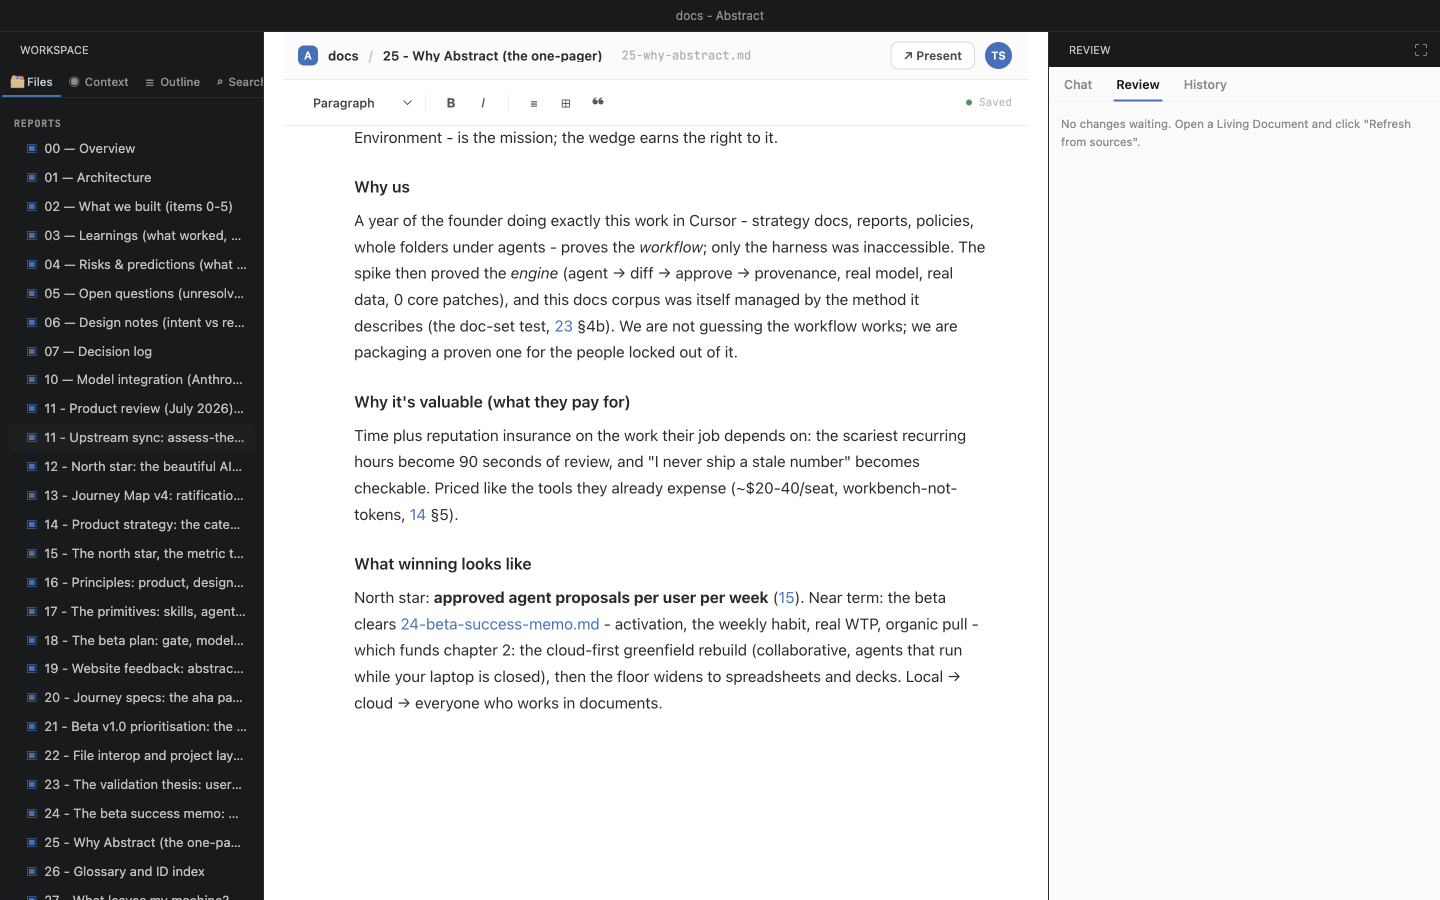
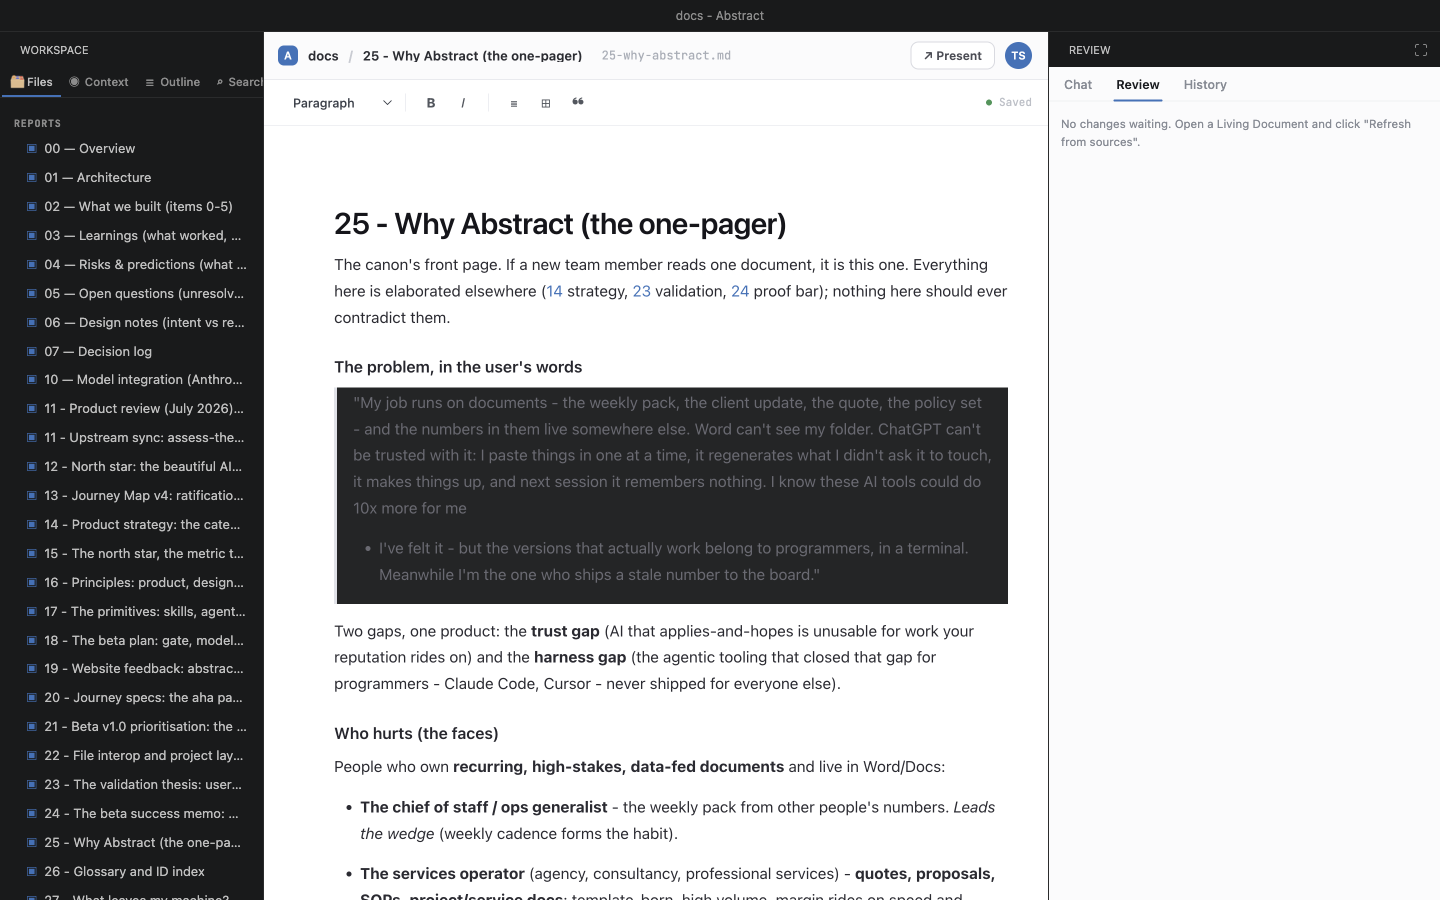
fix(livingDocs): reset webview harness body padding so header bars are truly edge-to-edge (#175)
The doc editor top bar + formatting toolbar (and the screen topbar) were inset ~20px
off each pane rail by a persistent white gutter. Root cause: the webview harness injects
body{padding:0 20px} (src/vs/workbench/contrib/webview/browser/pre/index.html); the
living-doc + screen content CSS reset body margin but not padding, so the harness inset
survived and pushed every full-bleed bar off both rails. The earlier sibling-of-.pmwrap
work was necessary but not sufficient - the gutter was the surviving harness padding.

Fix (fork-owned generated CSS only, no core patch): add padding:0 to the content html,body
rule in livingDocRender.ts and screenRender.ts. The centred 720px prose column keeps its
own insets via the .pmwrap 40px lateral padding, so the prose stays centred (verified
149px symmetric insets at a 1048px pane, 40px at 784px) while the bars now reach 0px inset
on both rails.

Reframe the #175 unit test off the tautological sibling-order assertion onto the real
acceptance: the generated CSS resets the harness body padding. Verified the reframed test
fails on bodyPaddingReset when the reset is reverted.

Live E2E on doc 25 (docs workspace): top bar leftInset=0/rightInset=0 at 784px and 1048px
pane widths; left-edge crops show no white lane; breadcrumb (#174) and present mode
unaffected. Evidence refreshed under docs/qa/2026-07-16-bundle-f/ (stale pre-fix annotated
gutter shots removed; validator/ intact).
[…]

diff --git a/src/vs/workbench/contrib/livingDocs/test/browser/livingDocRender.test.ts b/src/vs/workbench/contrib/livingDocs/test/browser/livingDocRender.test.ts
@@ -318,31 +318,37 @@ suite('livingDocs render (PM default - renderLivingDocHtml)', () => {
 		}, { hasBrandCrumb: true, noFileBreadcrumb: true });
 	});
 
-	// Issue #175: the top bar and formatting toolbar run edge-to-edge - they are siblings of the padded prose
-	// wrapper (.pmwrap), not children of it, so their backgrounds/hairline borders reach both rails while only
-	// the prose column carries the 32px/40px wrapper padding + its 30px provenance gutter.
-	test('the header bars are full-bleed siblings of the padded prose wrapper (edge-to-edge chrome)', () => {
+	// Issue #175: the top bar and formatting toolbar run edge-to-edge. The bars being siblings of .pmwrap is
+	// necessary but not sufficient - it was true since the first commit yet the gutter persisted, because the
+	// webview harness injects `body{padding:0 20px}` and the content CSS only reset margin, so the 20px lateral
+	// inset survived and pushed every bar off both rails. The real acceptance is therefore that the generated
+	// CSS resets the harness body padding to 0; only then do the sibling bars actually reach the rails while the
+	// centred 720px prose column keeps its own 40px/30px insets. This is a generated-string test, so we assert
+	// against the CSS text directly - reverting the `padding:0` reset must fail it.
+	test('the generated CSS resets the harness body padding so the sibling header bars reach both rails (edge-to-edge chrome)', () => {
 		const content = renderLivingDocContent({
 			doc: { title: '25 - Why Abstract (the one-pager)', subtitle: '', sources: [], context: [], blocks: [], isLiving: false, body: '' },
 			pending: [], resolved: new Map(), dirty: false, status: '', recent: new Set(), mode: 'pm', rawText: '',
 			present: { open: false, choice: 'html' }, syncDiff: [], projectName: 'docs', fileName: '25-why-abstract.md',
 		});
 		const h = content.html;
-		// The bars precede .pmwrap in document order and are not nested inside it: everything BEFORE the wrapper
-		// opens is the full-bleed chrome; the wrapper and its centred prose column come after.
+		const shell = renderLivingDocHtml({
+			doc, pending: [], resolved: new Map(), dirty: false, status: '', recent: new Set(), mode: 'pm', rawText: '',
+			present: { open: false, choice: 'html' }, syncDiff: [],
+		});
 		const wrapAt = h.indexOf('<div class="pmwrap">');
-		const chrome = h.slice(0, wrapAt);
 		assert.deepStrictEqual({
-			topBarBeforeWrap: chrome.includes('class="topbar"'),
-			toolbarBeforeWrap: chrome.includes('class="etoolbar"'),
-			// the bars are not wrapped by .pmwrap (no bar markup appears after the wrapper opens, before its close)
+			// The harness's `body{padding:0 20px}` inset is reset in the content's own html,body rule (the fix for
+			// #175). Without this the bars are inset ~20px off each rail no matter where they sit in the DOM.
+			bodyPaddingReset: shell.includes('html,body{margin:0;padding:0;'),
+			// The bars precede .pmwrap in document order and are not nested inside its padding.
+			topBarBeforeWrap: h.slice(0, wrapAt).includes('class="topbar"'),
+			toolbarBeforeWrap: h.slice(0, wrapAt).includes('class="etoolbar"'),
 			barsNotInsideWrap: !h.slice(wrapAt).includes('class="topbar"') && !h.slice(wrapAt).includes('class="etoolbar"'),
-			// the centred prose column keeps its 720px max-width + 30px provenance gutter (CSS, asserted via the shell)
-			proseCentred: renderLivingDocHtml({
-				doc, pending: [], resolved: new Map(), dirty: false, status: '', recent: new Set(), mode: 'pm', rawText: '',
-				present: { open: false, choice: 'html' }, syncDiff: [],
-			}).includes('.pmwrap .prose{flex:0 1 auto;max-width:720px;margin:0;padding-left:30px'),
+			// The centred prose column keeps its 720px max-width + 30px provenance gutter (its own inset, not the harness's).
+			proseCentred: shell.includes('.pmwrap .prose{flex:0 1 auto;max-width:720px;margin:0;padding-left:30px'),
 		}, {
+			bodyPaddingReset: true,
 			topBarBeforeWrap: true,
 			toolbarBeforeWrap: true,
 			barsNotInsideWrap: true,

diff --git a/src/vs/workbench/contrib/livingDocs/browser/livingDocRender.ts b/src/vs/workbench/contrib/livingDocs/browser/livingDocRender.ts
@@ -45,7 +45,7 @@ const EMPTY_RESOLVED: ReadonlyMap<string, string> = new Map<string, string>();
 // Markdown textarea, reachable from the editor for hand-editing source.
 export type LivingDocViewMode = 'raw' | 'pm';
 
-// (plan 33 iter 4, L8; doc 22 §3) Present offers what Abstract actually produces today: a self-contained
+// (plan 33 iter 4, L8; doc 22 section 3) Present offers what Abstract actually produces today: a self-contained
 // HTML page, clean portable Markdown, a print-to-PDF and a Word .docx mapped to built-in styles. The
 // remaining cloud/spreadsheet destinations (Google Docs, Google Sheets, Excel) are real product goals but
 // not built yet, so they stay honest "Soon" rows (non-selectable) rather than fabricating a format - the
@@ -149,7 +149,11 @@ const ACCENT = 'oklch(0.55 0.13 255)';
 
 // Style and script are single left-aligned template literals so source indentation stays tab-only.
 const STYLE = `*{box-sizing:border-box}
-html,body{margin:0;height:100%;background:#fff;color:#1a1c20;font-family:system-ui,-apple-system,'Segoe UI',sans-serif}
+/* Reset the webview harness's body padding (0 20px, injected by src/vs/workbench/contrib/webview/browser/pre/index.html)
+ * as well as its margin. The harness inset survives a margin-only reset and pushes the top bar + formatting toolbar
+ * ~20px off each pane rail (issue #175). Zeroing padding lets the full-bleed chrome reach both rails; the centred
+ * 720px prose column keeps its own breathing room via the .pmwrap 40px lateral padding. */
+html,body{margin:0;padding:0;height:100%;background:#fff;color:#1a1c20;font-family:system-ui,-apple-system,'Segoe UI',sans-serif}
 .topbar{position:sticky;top:0;height:48px;display:flex;align-items:center;justify-content:space-between;padding:0 16px 0 14px;border-bottom:1px solid #e9eaee;background:#fbfbfc;z-index:5}
 .brand{display:flex;align-items:center;gap:10px;font:600 13px/1 system-ui;color:#2a2c32}
 .logo{width:20px;height:20px;border-radius:6px;background:${ACCENT};color:#fff;display:flex;align-items:center;justify-content:center;font:600 11px/1 system-ui}
@@ -318,7 +322,9 @@ table.kpi td:first-child{text-align:left;font-weight:500}
  * the prose column. The top bar and formatting toolbar are rendered as SIBLINGS of .pmwrap (see the html
  * assembly in renderLivingDocContent), so their #fbfbfc / white backgrounds and hairline borders run
  * rail-to-rail with no white gutter, while the reading column stays centred. Do NOT move the bars inside
- * .pmwrap or they inherit this padding and lose the full-bleed edges. */
+ * .pmwrap or they inherit this padding and lose the full-bleed edges. This only reaches the rails because the
+ * html,body rule above resets the webview harness's body padding (0 20px) - without that reset the harness
+ * inset survives and pushes every bar ~20px off each rail. */
 .pmwrap{display:flex;justify-content:center;padding:32px 40px 90px}
 .pmwrap .prose{flex:0 1 auto;max-width:720px;margin:0;padding-left:30px;padding-right:0;box-sizing:content-box;position:relative}
 .pmwrap .ProseMirror{outline:none;min-height:60vh;white-space:pre-wrap;word-wrap:break-word;-webkit-font-smoothing:antialiased}

diff --git a/src/vs/workbench/contrib/livingDocs/browser/screenRender.ts b/src/vs/workbench/contrib/livingDocs/browser/screenRender.ts
@@ -355,7 +355,11 @@ function pickerSheet(id: string, opts: { title: string; sub?: string; nameLabel:
 const HEAD = `<meta charset="utf-8"><meta name="viewport" content="width=device-width, initial-scale=1">
 <style>
 *{box-sizing:border-box}
-html,body{margin:0;height:100%}
+/* Reset the webview harness's body padding (0 20px, injected by src/vs/workbench/contrib/webview/browser/pre/index.html)
+ * along with its margin, for the same edge-to-edge reason as the doc editor (issue #175). The screen's .topbar
+ * runs full width with a #fbfbfc background + hairline border and must reach both rails; the cards inside .scr-body
+ * float on the #f8f9fb canvas with their own internal padding, so zeroing the harness inset does not crowd them. */
+html,body{margin:0;padding:0;height:100%}
 body{font-family:system-ui,-apple-system,'Segoe UI',sans-serif;color:#1a1c20;background:#fff}
 ::selection{background:rgba(80,110,235,.18)}
 ::-webkit-scrollbar{width:11px;height:11px}
